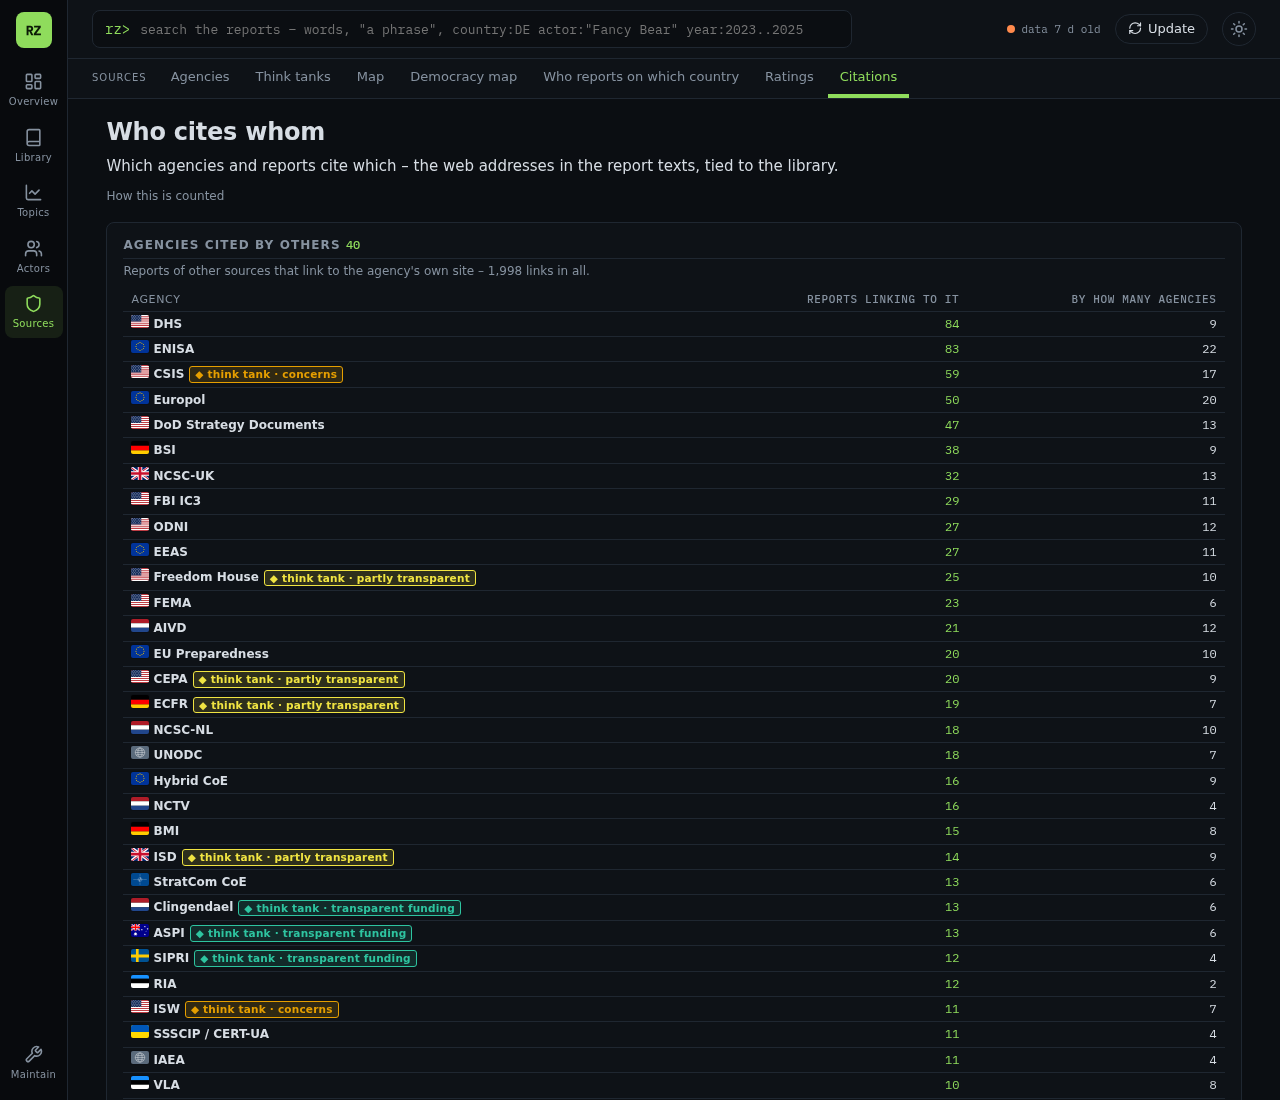
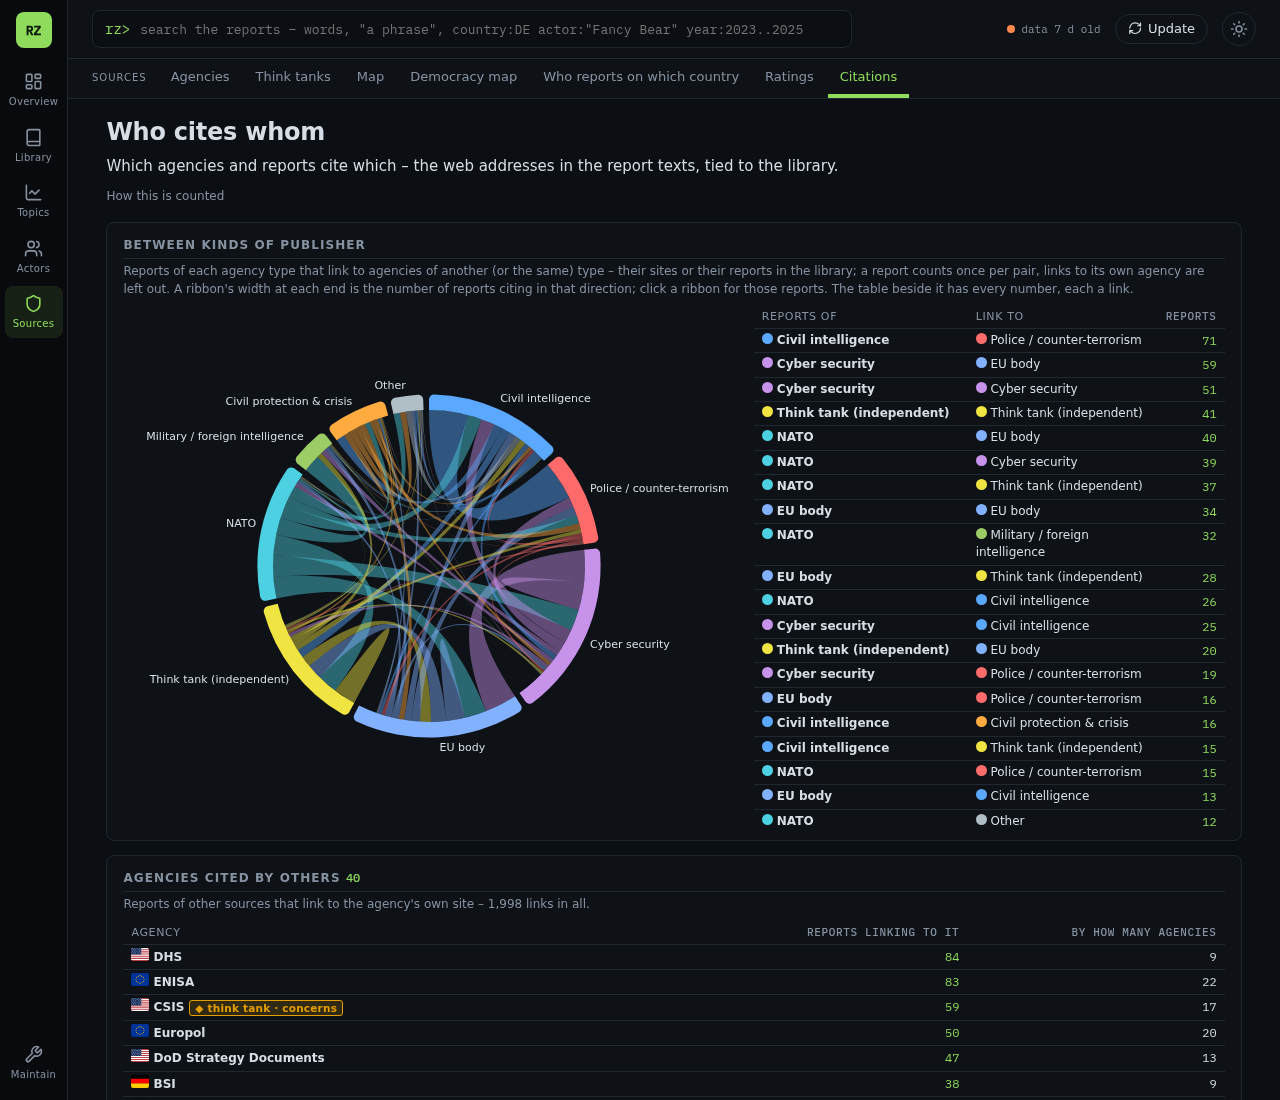
feat: chord diagram of citations between agency types (0.61.0)

Changed region(s): [[0.0938, 0.2164, 0.9688, 1.0], [0.8125, 0.8345, 0.9688, 0.8964], [0.5, 0.4327, 0.5625, 0.4636]]

diff --git a/rozvedka/templates/citations.html b/rozvedka/templates/citations.html
@@ -1,5 +1,6 @@
 {% extends "base.html" %}
 {% block title %}Citations · Rozvedka{% endblock %}
+{% block head %}<script src="{{ asset('vendor/echarts/echarts.min.js') }}"></script>{% endblock %}
 {% block main %}
 <h1 class="page-h">Who cites whom</h1>
 <p class="lede">Which agencies and reports cite which – the web addresses in the report texts, tied to the library.</p>
@@ -10,6 +11,47 @@
   ignored), to <b>another agency</b> when it lies on the site of one other source of the library (the host of its home page; where the home page is deeper in a shared
   portal like gov.uk, only that path; a host two sources share is not guessed at; a report linking to its own agency's site is left out), and otherwise to an <b>outside source</b>. Addresses broken across
   lines in a PDF are not recovered, so every count is a minimum. Each number links to the reports it counts.</p></details>
+
+{% if flows %}
+<section class="viz-card" id="flows">
+  <h2 class="viz-title">Between kinds of publisher</h2>
+  <p class="muted small viz-sub">Reports of each agency type that link to agencies of another (or the same) type – their sites or their reports
+    in the library; a report counts once per pair, links to its own agency are left out. A ribbon's width at each end is the number of reports
+    citing in that direction; click a ribbon for those reports. The table beside it has every number, each a link.</p>
+  <div class="chord-wrap"><div id="chord" class="chart" role="img" aria-label="Chord diagram of citations between agency types"></div>
+    <table class="rp-topics small chord-table">
+      <thead><tr><th>Reports of</th><th>link to</th><th class="n">Reports</th></tr></thead>
+      {% for f in flows %}<tr><th><i class="dot solid type-dot-{{ f.src }}"></i> {{ TYPE_NAMES.get(f.src, f.src) }}</th>
+        <td><i class="dot solid type-dot-{{ f.dst }}"></i> {{ TYPE_NAMES.get(f.dst, f.dst) }}</td><td class="n"><a href="{{ f.link }}">{{ f.reports }}</a></td></tr>{% endfor %}
+    </table></div>
+</section>
+<script>
+(() => {
+  const flows = {{ flows|tojson }}, names = {{ TYPE_NAMES|tojson }};
+  const types = [...new Set(flows.flatMap((f) => [f.src, f.dst]))];
+  const colour = (t) => { const i = document.createElement("i"); i.className = "type-dot-" + t; document.body.appendChild(i);
+                          const c = getComputedStyle(i).getPropertyValue("--c").trim(); i.remove(); return c || rzTokens.get("--muted"); };
+  const css = (n) => rzTokens.get(n);
+  const el = document.getElementById("chord"), chart = echarts.init(el, null, { renderer: "svg" });
+  function draw() {
+    chart.setOption({
+      animation: false, textStyle: { fontFamily: "IBM Plex Sans, system-ui, sans-serif" },
+      tooltip: { backgroundColor: css("--panel"), borderColor: css("--line"), textStyle: { color: css("--ink"), fontSize: 12 },
+        formatter: (p) => p.dataType === "edge" ? `${names[p.data.source] || p.data.source} → ${names[p.data.target] || p.data.target}<br><b>${p.data.value}</b> reports · click for the list`
+                                                : `<b>${names[p.name] || p.name}</b>` },
+      series: [{ type: "chord", radius: ["60%", "66%"], center: ["50%", "50%"], padAngle: 2, minAngle: 2, clockwise: true,
+        label: { show: true, color: css("--ink"), fontSize: 11, formatter: (p) => names[p.name] || p.name },
+        lineStyle: { color: "source", opacity: 0.45 }, emphasis: { focus: "adjacency", lineStyle: { opacity: 0.85 } },
+        data: types.map((t) => ({ name: t, itemStyle: { color: colour(t) } })),
+        links: flows.map((f) => ({ source: f.src, target: f.dst, value: f.reports, link: f.link })) }] }, true);
+  }
+  draw();
+  chart.on("click", (p) => { if (p.dataType === "edge" && p.data.link) window.location = p.data.link; });
+  window.rzDark.addEventListener("change", draw);
+  window.addEventListener("resize", () => chart.resize());
+})();
+</script>
+{% endif %}
 
 <section class="viz-card">
   <h2 class="viz-title">Agencies cited by others <span class="muted small">{{ cited_sources|length }}</span></h2>

diff --git a/rozvedka/templates/index.html b/rozvedka/templates/index.html
@@ -60,7 +60,7 @@
     {% if f.cve != 'kev' %}<a class="small" href="/cves/{{ f.cve }}">CVE page</a>{% endif %}{% endif %}
   {% if f.technique %}<a class="topic-chip on" href="/documents?{{ qs(technique='', page=1) }}" title="Remove">naming ATT&amp;CK technique {{ f.technique }} ✕</a>
     <a class="small" href="/techniques/{{ f.technique }}">technique page</a>{% endif %}
-  {% if f.cite %}{% set k, _, v = f.cite.partition(':') %}<a class="topic-chip on" href="/documents?{{ qs(cite='', page=1) }}" title="Remove">{% if k == 'doc' %}citing report {{ v }}{% elif k == 'by' %}cited by report {{ v }}{% elif k == 'src' %}linking to the site of source {{ v }}{% else %}linking to {{ v }}{% endif %} ✕</a>
+  {% if f.cite %}{% set k, _, v = f.cite.partition(':') %}<a class="topic-chip on" href="/documents?{{ qs(cite='', page=1) }}" title="Remove">{% if k == 'doc' %}citing report {{ v }}{% elif k == 'by' %}cited by report {{ v }}{% elif k == 'src' %}linking to the site of source {{ v }}{% elif k == 'stype' %}linking to agencies of the type “{{ TYPE_NAMES.get(v, v) }}”{% else %}linking to {{ v }}{% endif %} ✕</a>
     {% if k in ('doc', 'by') %}<a class="small" href="/report/{{ v }}">the report</a> · {% endif %}<a class="small" href="/citations">citations overview</a>{% endif %}
   {% if f.main %}<a class="topic-chip on" href="/documents?{{ qs(main='', page=1) }}" title="Remove">topics among each report's 3 main topics ✕</a>{% endif %}
   {% if f.indexed %}<a class="topic-chip on" href="/documents?{{ qs(indexed='', page=1) }}" title="Remove – the Trends charts count only documents with topic-classified text">classified text only ✕</a>{% endif %}

diff --git a/rozvedka/static/style.css b/rozvedka/static/style.css
@@ -1282,3 +1282,9 @@ td.a-docs > a { display: inline-block; min-width: 3.2em; font-family: var(--mono
 .tlm-axis span { position: absolute; transform: translateX(-50%); top: 5px; }
 .tlm-key { grid-column: 1 / -1; margin: 0; padding: 10px 16px; box-shadow: 0 0 0 1px var(--line); }
 .tlm-key-dot { position: relative; display: inline-block; margin: 0 2px; vertical-align: -1px; }
+
+/* ── Citations between kinds of publisher: chord diagram with its table ── */
+.chord-wrap { display: grid; grid-template-columns: minmax(0, 1.3fr) minmax(280px, 1fr); gap: 18px; align-items: start; }
+#chord { height: 520px; }
+.chord-table { max-height: 520px; overflow-y: auto; display: block; }
+@media (max-width: 900px) { .chord-wrap { grid-template-columns: 1fr; } #chord { height: 380px; } }

diff --git a/rozvedka/citations.py b/rozvedka/citations.py
@@ -126,6 +126,10 @@ def index() -> dict:
 
 
 # ── queries ──
+# the agency a link points to: the site it lies on, or the publisher of the library report it is the address of
+CITED = "COALESCE(l.target_source, (SELECT source_id FROM documents WHERE id=l.target_doc))"
+
+
 def _scoped(extra: str = "") -> tuple[str, list]:
     where, args, _ = trends.scope()
     return f"{where}{' AND ' + extra if extra else ''}", args
@@ -156,8 +160,17 @@ def overview() -> dict:
         totals = dict(con.execute(
             f"""SELECT COUNT(DISTINCT l.doc_id) reports, COUNT(*) links, COUNT(DISTINCT l.host) hosts,
                        SUM(l.target_doc IS NOT NULL) to_reports, SUM(l.target_source IS NOT NULL) to_agencies {base}""", args).fetchone())
+        # flows between kinds of publisher: reports of one agency type that link to agencies (sites or reports) of another type;
+        # a report counts once per pair of types, and links to its own agency are left out
+        flows = [dict(r) for r in con.execute(
+            f"""SELECT s.type src, t.type dst, COUNT(DISTINCT l.doc_id) reports
+                {base.replace("FROM doc_links l", f"FROM doc_links l JOIN sources t ON t.id={CITED}", 1)} AND t.id != s.id
+                GROUP BY s.type, t.type ORDER BY reports DESC""", args)]
+        for f in flows:
+            f["link"] = f"/documents?type={f['src']}&cite=stype:{f['dst']}&indexed=1"
         n_reports = con.execute(f"SELECT COUNT(*) FROM documents d JOIN sources s ON s.id=d.source_id JOIN doc_index i ON i.doc_id=d.id WHERE {where}", args).fetchone()[0]
-    return {"cited_sources": cited_sources, "hosts": hosts, "cited_docs": cited_docs, "totals": totals, "n_reports": n_reports}
+    return {"cited_sources": cited_sources, "hosts": hosts, "cited_docs": cited_docs, "totals": totals, "n_reports": n_reports,
+            "flows": flows}
 
 
 @db.cached
@@ -187,7 +200,8 @@ def of_doc(doc_id: int) -> dict:
 
 def clause(cite: str) -> tuple[str, list] | None:
     """Documents-page filter `cite=`: doc:ID reports citing report ID · by:ID reports cited by ID · src:ID reports linking to
-    source ID's site · host:HOST reports linking to that outside host."""
+    source ID's site · host:HOST reports linking to that outside host · stype:TYPE reports linking to an agency of that type
+    (its site or one of its reports in the library), not their own."""
     kind, _, val = (cite or "").partition(":")
     if kind == "doc" and val.isdigit():
         return "d.id IN (SELECT doc_id FROM doc_links WHERE target_doc=?)", [int(val)]
@@ -195,6 +209,9 @@ def clause(cite: str) -> tuple[str, list] | None:
         return "d.id IN (SELECT target_doc FROM doc_links WHERE doc_id=? AND target_doc IS NOT NULL)", [int(val)]
     if kind == "src" and val.isdigit():
         return "d.id IN (SELECT doc_id FROM doc_links WHERE target_source=?)", [int(val)]
+    if kind == "stype" and re.fullmatch(r"[a-z-]+", val):
+        return (f"""d.id IN (SELECT l.doc_id FROM doc_links l JOIN documents dd ON dd.id=l.doc_id JOIN sources t ON t.id={CITED}
+                    WHERE t.type=? AND t.id != dd.source_id)""", [val])
     if kind == "host" and val:
         return "d.id IN (SELECT doc_id FROM doc_links WHERE host=? AND target_source IS NULL AND target_doc IS NULL)", [val.lower()]
     return None

diff --git a/tests/test_citations.py b/tests/test_citations.py
@@ -63,6 +63,11 @@ def test_overview_and_every_count_links_to_its_reports(library):
     d = citations.of_doc(2)
     assert [c["id"] for c in d["cited"]] == [1] and d["agencies"] == [{"id": 1, "agency": "NCSC", "links": 1}]
     assert {c["id"] for c in citations.of_doc(1)["cited_by"]} == {2, 3}
+    # flows between agency types: every number is the Documents list it links to
+    assert o["flows"]
+    for f in o["flows"]:
+        assert doclist.count(type=f["src"], cite="stype:" + f["dst"], indexed=1) == f["reports"], f
+    assert citations.clause("stype:bad type!") is None
 
 
 def test_pages(library):

diff --git a/rozvedka/__init__.py b/rozvedka/__init__.py
@@ -5,7 +5,7 @@ from pathlib import Path
 
 # Single source of the release version (Semantic Versioning, https://semver.org).
 # Do not edit by hand: run `python3 tools/bump_version.py patch|minor|major` (see CHANGELOG.md, "Versioning").
-__version__ = "0.60.0"
+__version__ = "0.61.0"
 
 
 @lru_cache(maxsize=1)

diff --git a/CHANGELOG.md b/CHANGELOG.md
@@ -27,6 +27,14 @@ From 0.9.1 on, the significance of a change decides which part of `MAJOR.MINOR.P
 
 ## [Unreleased]
 
+## [0.61.0] – 2026-10-13
+
+### Added
+- **Citations between kinds of publisher** (`/citations`): a chord diagram of how agency types cite each other – reports of one type
+  linking to agencies of another (their sites or their reports in the library), think tanks included – with a table beside it holding
+  every number. Each ribbon and each number opens exactly those reports, through the new Documents filter `cite=stype:<type>`
+  combined with the citing type.
+
 ## [0.60.0] – 2026-10-13
 
 ### Added
@@ -1185,7 +1193,8 @@ From 0.9.1 on, the significance of a change decides which part of `MAJOR.MINOR.P
 - Crawler, polite downloader (robots.txt, per-host delay, PDF check, de-duplication) and FastAPI web portal.
 - systemd user units for the portal and a weekly update timer.
 
-[Unreleased]: https://github.com/iiogurt/Rozvedka/compare/v0.60.0...HEAD
+[Unreleased]: https://github.com/iiogurt/Rozvedka/compare/v0.61.0...HEAD
+[0.61.0]: https://github.com/iiogurt/Rozvedka/compare/v0.60.0...v0.61.0
 [0.60.0]: https://github.com/iiogurt/Rozvedka/compare/v0.59.0...v0.60.0
 [0.59.0]: https://github.com/iiogurt/Rozvedka/compare/v0.58.1...v0.59.0
 [0.58.1]: https://github.com/iiogurt/Rozvedka/compare/v0.58.0...v0.58.1

diff --git a/README.md b/README.md
@@ -335,7 +335,7 @@ column; <i>over-emphasis</i> shows how much more or less often a row carries a t
   Spain, Austria, Sweden, Latvia), each on the state's own scale and with the page it comes from. Hand-curated; every quote is
   checked (`fetch-threat-levels` for the announcement pages, the library's stored text for the reports).
 
-- **Who cites whom** (`/citations`) – the web addresses in the reports resolved against the library: which agencies other
+- **Who cites whom** (`/citations`) – a chord diagram of citations between agency types (each ribbon opens its reports) and the web addresses in the reports resolved against the library: which agencies other
   agencies link to, which library reports are cited by other reports, which outside hosts (news, academic, law …) the reports rely
   on. Report pages list what a report links to and which reports link to it; every count links to the reports it counts.
 

diff --git a/docs/ROADMAP.md b/docs/ROADMAP.md
@@ -147,7 +147,7 @@ combined timeline · C4 ✅ (0.58.1) the other pages in the panel style.
 6. ✅ (0.59.0) **Topic matrix** – a reference column of all reports and an over-emphasis (lift) mode. · minor
 7. **Annotated actor timeline** – dated events and the country grid on one year axis. · minor
 8. ✅ (0.60.0) **Threat-level small multiples** – one step chart per state on its own scale. · minor
-9. **Citations** – agency × agency matrix; a chord diagram for agency types only. · minor
+9. ◐ (0.61.0: chord diagram between agency types) **Citations** – still open: an agency × agency matrix. · minor
 10. **ATT&CK tactic grid and CVE lag plot.** · minor
 11. **Coverage overview grid and a country × agency-type gap matrix.** · minor
 12. **Topic and country briefing pages** (`/topics/{key}`: trend, top agencies and actors, newest passages). · minor / large
